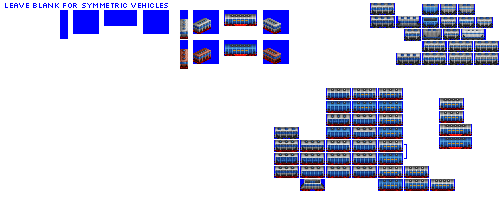
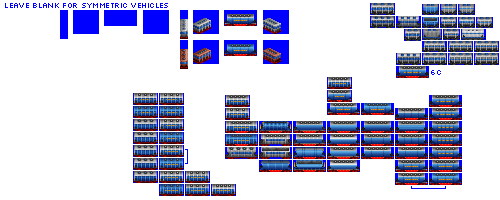
Change: WIP on grain hoppers

diff --git a/src/vehicles/grain_hopper_cars.py b/src/vehicles/grain_hopper_cars.py
@@ -54,17 +54,17 @@ def main():
     consist.add_unit(type=FreightCar,
                      chassis='2_axle_filled_16px')
 
-
+    """
     consist = GrainHopperCarConsist(roster='pony',
-                                      base_numeric_id=1240,
+                                      base_numeric_id=2800,
                                       gen=5,
                                       subtype='B',
                                       sprites_complete=False)
 
     consist.add_unit(type=FreightCar,
-                     chassis='4_axle_filled_24px')
+                     chassis='2_axle_filled_24px')
 
-    """
+
     consist = GrainHopperCarConsist(roster='pony',
                                       base_numeric_id=2690,
                                       gen=5,
@@ -74,19 +74,9 @@ def main():
     consist.add_unit(type=FreightCar,
                      chassis='4_axle_filled_32px')
 
-    """
-    consist = GrainHopperCarConsist(roster='pony',
-                                      base_numeric_id=2060,
-                                      gen=6,
-                                      subtype='A',
-                                      sprites_complete=False)
-
-    consist.add_unit(type=FreightCar,
-                     chassis='2_axle_filled_16px')
-
 
     consist = GrainHopperCarConsist(roster='pony',
-                                      base_numeric_id=3040,
+                                      base_numeric_id=2810,
                                       gen=6,
                                       subtype='B',
                                       sprites_complete=False)
@@ -94,9 +84,9 @@ def main():
     consist.add_unit(type=FreightCar,
                      chassis='4_axle_filled_24px')
 
-
+    """
     consist = GrainHopperCarConsist(roster='pony',
-                                      base_numeric_id=2910,
+                                      base_numeric_id=2820,
                                       gen=6,
                                       subtype='C',
                                       sprites_complete=False)
